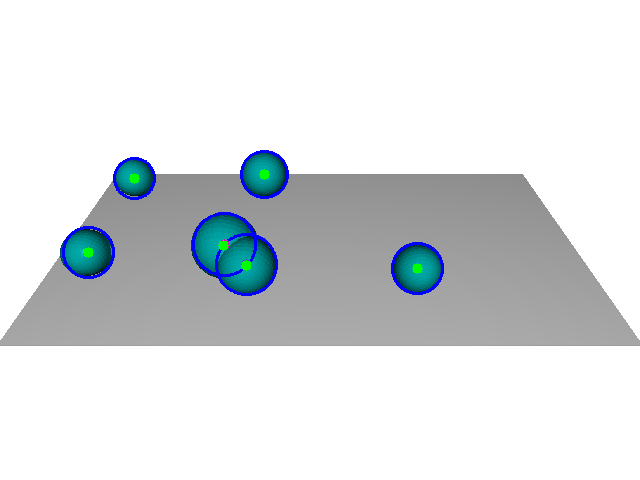
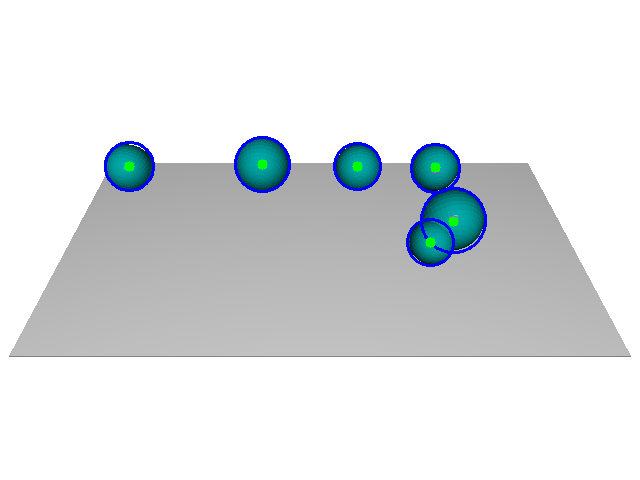
Improve estimated and ground truth sphere visualisation

diff --git a/CWII2425-v2.py b/CWII2425-v2.py
@@ -540,6 +540,7 @@ if __name__ == '__main__':
     # Compute and show the mean error
     mean_distance = distance_sum / len(estimated_centres)
     print('Mean error (distance from ground truth):', mean_distance)
+    print()
 
     ###################################
     '''
@@ -589,7 +590,10 @@ if __name__ == '__main__':
     '''
     ###################################
 
-    def getSphereMesh(centre, radius, colour):
+    # Note: The spheres are visualised below with a line set (basically a wireframe) instead of a mesh, so that we can see through the spheres
+    # Note: Zoom closely to each sphere to see both the green and red spheres in full to compare them (from afar the wireframes can look like solid spheres)
+
+    def getSphereLineSet(centre, radius, colour):
         # Create sphere with given radius
         mesh = o3d.geometry.TriangleMesh.create_sphere(radius=radius)
 
@@ -609,54 +613,70 @@ if __name__ == '__main__':
             transform_points(np.asarray(mesh.vertices), H)
         )
 
-        # Paint meshes in uniform colours
-        mesh.paint_uniform_color(colour)
+        # Compute vertex normals
         mesh.compute_vertex_normals()
+
+        # Convert mesh into line set
+        line_set = o3d.geometry.LineSet.create_from_triangle_mesh(mesh)
+
+        # Paint lines in uniform colours
+        line_set.paint_uniform_color(colour)
         
-        return mesh
+        return line_set
 
-    ground_truth_centres = np.array(GT_cents)[:,:3].tolist()
-
-    # Ground truth sphere centre point cloud (red)
-    pcd_GT_cents = o3d.geometry.PointCloud()
-    pcd_GT_cents.points = o3d.utility.Vector3dVector(np.array(ground_truth_centres))
-    pcd_GT_cents.paint_uniform_color([1., 0., 0.])
-
-    # Estimated sphere centre point cloud (green)
-    pcd_est_cents = o3d.geometry.PointCloud()
-    pcd_est_cents.points = o3d.utility.Vector3dVector(np.array(estimated_centres))
-    pcd_est_cents.paint_uniform_color([0., 1., 0.])
-
-    # Ground truth spheres
+    # Ground truth spheres (red)
     ground_truth_spheres = []
     ground_truth_centres = np.array(GT_cents)[:,:3].tolist()
     for i in range(len(ground_truth_centres)):
         gt_centre = ground_truth_centres[i]
         gt_radius = GT_rads[i]
         colour = [1.0, 0.0, 0.0]
-        mesh = getSphereMesh(gt_centre, gt_radius, colour)
+        mesh = getSphereLineSet(gt_centre, gt_radius, colour)
         ground_truth_spheres.append(mesh)
 
-    # Estimated spheres
+    # Estimated spheres (green)
     estimated_spheres = []
     for i in range(len(estimated_centres)):
         est_centre = estimated_centres[i]
         est_radius = estimated_radii[i]
         colour = [0.0, 1.0, 0.0]
-        mesh = getSphereMesh(est_centre, est_radius, colour)
+        mesh = getSphereLineSet(est_centre, est_radius, colour)
         estimated_spheres.append(mesh)
 
     # Visualise both ground truth and estimated spheres
     vis = o3d.visualization.Visualizer()
     vis.create_window(width=640, height=480, left=0, top=0)
-    for m in [obj_meshes[0], pcd_GT_cents, pcd_est_cents]:
-        vis.add_geometry(m)
+    vis.add_geometry(obj_meshes[0])
     for m in ground_truth_spheres:
         vis.add_geometry(m)
     for m in estimated_spheres:
         vis.add_geometry(m)
     vis.run()
     vis.destroy_window()
+
+    # # Compute the errors (differences between estimated and ground truth radii)
+    # error_sum = 0
+    # for est_radius in estimated_radii:
+    #     # The closest ground truth centre is considered to correspond with the estimated centre
+    #     smallest_distance = float('inf')
+    #     closest_gt = None
+    #     for gt_centre in ground_truth_centres:
+    #         distance = math.sqrt(np.sum(np.square(est_centre - gt_centre)))
+    #         if distance < smallest_distance:
+    #             smallest_distance = distance
+    #             closest_gt = gt_centre
+        
+    #     error_sum += smallest_distance
+        
+    #     # Remove corresponding ground truth centre so it is not considered by any other estimated centres
+    #     ground_truth_centres.remove(closest_gt)
+
+    #     # Show the error
+    #     print('Error (distance from ground truth) of estimated radius', est_centre, 'is:', smallest_distance)
+    
+    # # Compute and show the mean error
+    # mean_error = error_sum / len(estimated_radii)
+    # print('Mean error (distance from ground truth):', mean_error)
 
     ###################################
     '''
